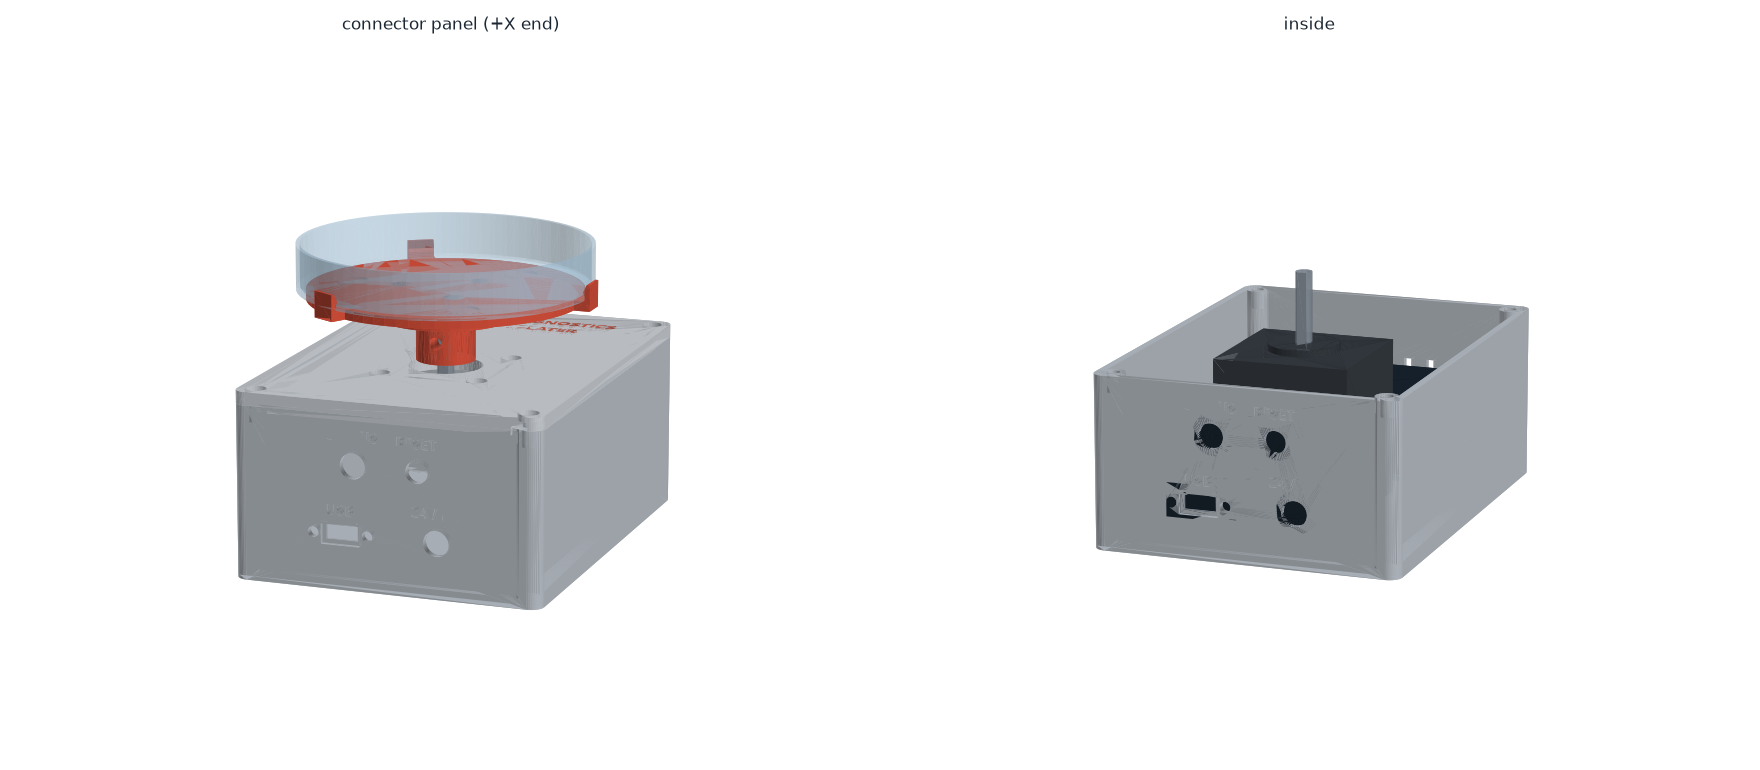
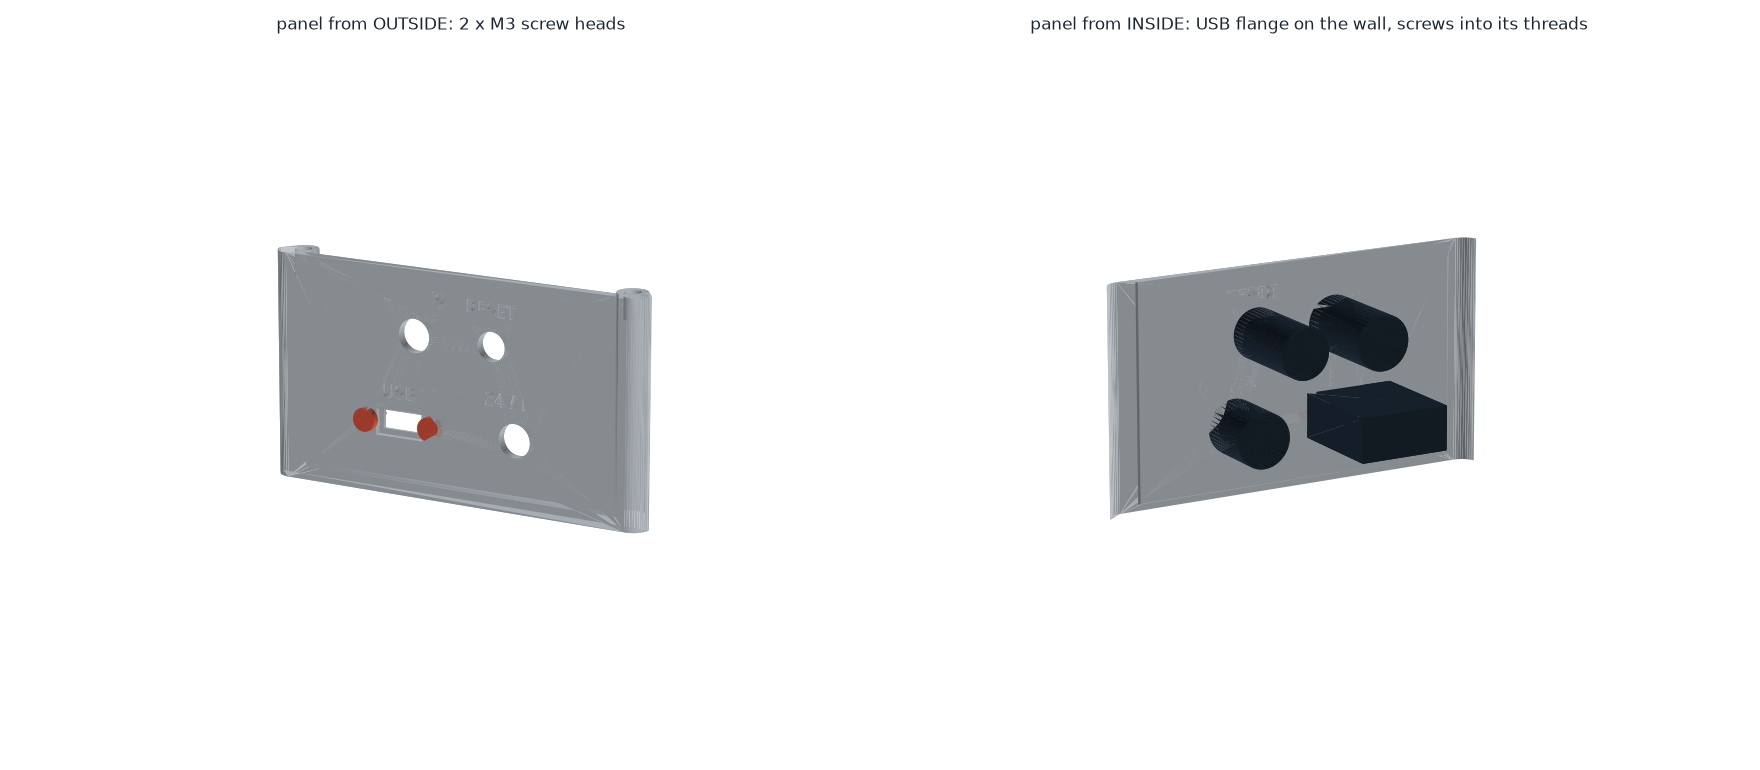
Panel preview: separate outside/inside views of the USB mount (flange inside, screws from outside)

diff --git a/enclosure/preview_enclosure.py b/enclosure/preview_enclosure.py
@@ -25,6 +25,7 @@ COLOURS = {
     "base": "#c9d0d8", "lid": "#dde2e8", "lid_text": "#e8563f", "hub": "#e8563f",
     "plate": "#e8563f", "motor": "#3b4148", "shaft": "#9aa5b1", "perfboard": "#2f8f4e",
     "board_parts": "#1b2733", "usb-c": "#9aa5b1", "dc_jack": "#1b2733", "dish": "#b8dcf5",
+    "screw": "#e8563f",
 }
 ALPHA = {"dish": 0.35}
 LIGHT = np.array([-0.4, -0.6, 0.7])
@@ -96,7 +97,47 @@ def figure(bodies_list, titles, path, size=(8, 7), **view):
     print("wrote", path)
 
 
+def cylinder_x(x0, x1, y, z, r, n=24) -> np.ndarray:
+    """Triangles of a closed cylinder along X (for the panel screws)."""
+    a = np.linspace(0, 2 * np.pi, n + 1)
+    ring = np.stack([np.cos(a) * r + y, np.sin(a) * r + z], axis=1)
+    tris = []
+    for i in range(n):
+        (y0, z0), (y1, z1) = ring[i], ring[i + 1]
+        tris += [[(x0, y0, z0), (x1, y0, z0), (x1, y1, z1)], [(x0, y0, z0), (x1, y1, z1), (x0, y1, z1)],
+                 [(x0, y, z), (x0, y0, z0), (x0, y1, z1)], [(x1, y, z), (x1, y1, z1), (x1, y0, z0)]]
+    return np.array(tris, dtype=float)
+
+
+def clip_x(tris: np.ndarray, x_min: float) -> np.ndarray:
+    return tris[tris[:, :, 0].min(axis=1) >= x_min]
+
+
+def panel_figure():
+    """The +X connector panel: from outside (screw heads) and from inside (USB flange)."""
+    x_wall = 65.0                                   # FOOT_X / 2 in build_enclosure.py
+    usb_y, usb_z, pitch = -14.0, 17.0, 17.0         # PANEL / USB_PANEL_SCREWS
+    screws = np.concatenate(
+        [np.concatenate([cylinder_x(x_wall, x_wall + 1.6, usb_y + s * pitch / 2, usb_z, 2.8),
+                         cylinder_x(x_wall - 6.0, x_wall, usb_y + s * pitch / 2, usb_z, 1.5)])
+         for s in (-1, 1)])
+    base = read_stl(PARTS / "base.stl")
+    fig = plt.figure(figsize=(16, 7), dpi=110)
+    ax = fig.add_subplot(1, 2, 1, projection="3d")
+    draw(ax, [("base", clip_x(base, x_wall - 12)), ("screw", screws)],
+         "panel from OUTSIDE: 2 x M3 screw heads", elev=15, azim=30)
+    ax = fig.add_subplot(1, 2, 2, projection="3d")
+    inner = [(n, clip_x(t, x_wall - 30)) for n, t in load(["dc_jack"])]
+    draw(ax, [("base", clip_x(base, x_wall - 3.0))] + inner + [("screw", screws)],
+         "panel from INSIDE: USB flange on the wall, screws into its threads", elev=15, azim=150)
+    fig.tight_layout()
+    fig.savefig(OUT / "panel.png", facecolor="white")
+    plt.close(fig)
+    print("wrote", OUT / "panel.png")
+
+
 def main():
+    panel_figure()
     closed = load(["base", "lid", "lid_text", "hub", "plate", "dish", "shaft"])
     inside = load(["base", "motor", "shaft", "perfboard", "board_parts", "usb-c", "dc_jack"])
     figure([closed, inside], ["assembled, with a 90 mm dish", "inside (lid removed)"],

diff --git a/enclosure/README.md b/enclosure/README.md
@@ -57,10 +57,12 @@
 
 | חיבור | חור | הרכבה |
 |---|---|---|
-| **USB** | חלון 10 × 4.5 מ"מ + שקע רדוד 12.4 × 7 לראש התקע, 2 חורי M3 במרחק 17 | הפלנץ של כבל ה-USB **מבפנים**, 2 ברגי M3 מבחוץ |
+| **USB** | חלון 10 × 4.5 מ"מ + שקע רדוד 12.4 × 7 לראש התקע, 2 חורי מעבר M3 (3.4) במרחק 17 | שקע ה-USB והפלנץ שלו **צמודים לדופן מבפנים**. 2 ברגי M3 נכנסים **מבחוץ**, עוברים דרך הדופן ומתברגים לחורי ההברגה שבפלנץ |
 | **24V DC** | Ø8 | שקע 5.5 × 2.1 לפאנל (DC-022B), אום מבפנים |
 | **STATUS** | Ø8 | בית ללד 5 מ"מ |
 | **RESET** | Ø7 | לחצן רגעי |
+
+![panel outside / inside](preview/panel.png)
 
 בגלל שהשקע יושב מאחורי הדופן, ראש הפלסטיק של תקע ה-USB נכנס לשקע הרדוד, והדופן מול השקע היא רק 0.8 מ"מ —
 כך התקע נכנס (כמעט) עד הסוף.
